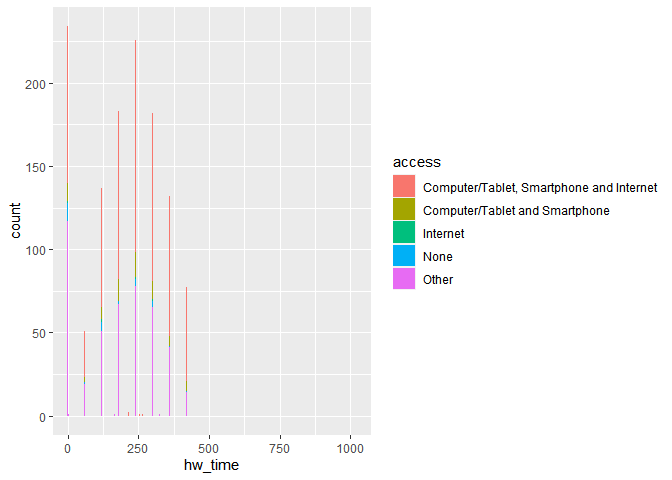
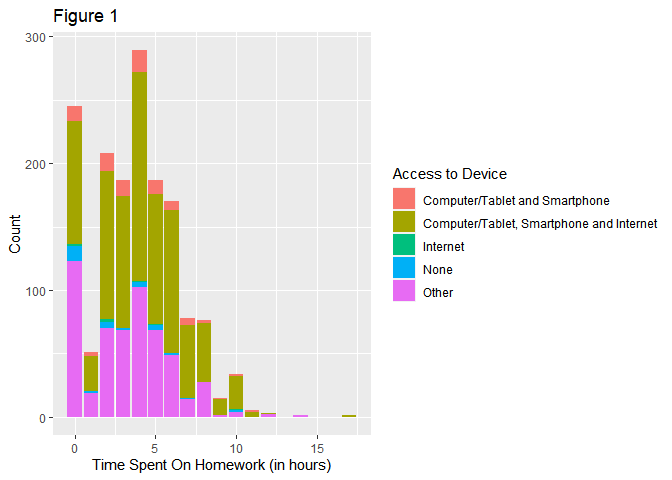
final solution

diff --git a/Projects/ZHuang2107/sonji-uni.md b/Projects/ZHuang2107/sonji-uni.md
@@ -1,9 +1,8 @@
 # Table of content
 
 1.  [Preparation](#preparation)  
-2.  [Data Cleaning](#data-cleaning)
-3.  [Data Processing](#data-processing)  
-4.  [Plot](#plot)
+2.  [Data Processing](#data-processing)  
+3.  [Plot](#plot)
 
 # Preparation
 
@@ -11,41 +10,29 @@
 
     datRaw <- read.csv('project data.csv')
 
-# Data Cleaning
-
-## Select columns
+# Data Processing
 
     dat <- datRaw |> 
+      # select columns
       select(P4_1:P4_3,
-             S8_1:S8_2)
-
-## Remove missings
-
-    dat <- dat |> 
-      na.omit()
-
-## Recode columns
-
-    dat <- dat |> 
-      mutate_at(vars(starts_with('P4_')),
-                ~ case_match(.x,
-                             1 ~ T, 2 ~ F))
-
-    dat <- dat |> 
-      mutate(hw_time = S8_1*60 + S8_2) |> 
-      select(-c(S8_1, S8_2))
-
-## Rename columns
-
-    names(dat) <- str_replace(names(dat),
-                              pattern = 'P4',
-                              replacement = 'dev')
-
-# Data Processing
+             S8_1:S8_2) |> 
+      # remove missings
+      na.omit() |> 
+      # recode columns
+      mutate(across(starts_with('P4_'),
+                    ~ case_match(.x,
+                                 1 ~ T, 2 ~ F)),
+             hw_time = round((S8_1*60 + S8_2) / 60)) |> 
+      # rename columns
+      rename('dev_computer' = P4_1,
+             'dev_internet' = P4_2,
+             'dev_smart' = P4_3,
+             'hw_hours' = S8_1,
+             'hw_minutes' = S8_2)
 
 ## Add group
 
-> ## Access to electric devices
+> **Access to electric devices**
 >
 > There will be four colors representing the following four situations:
 >
@@ -56,30 +43,23 @@
 
     dat <- dat |> 
       mutate(access = case_when(
-         dev_1 &  dev_2 &  dev_3 ~ 1,
-         dev_1 & !dev_2 &  dev_3 ~ 2,
-        !dev_1 &  dev_2 & !dev_3 ~ 3,
-        !dev_1 & !dev_2 & !dev_3 ~ 4,
-        TRUE                     ~ 5
-      ))
-
-    dat <- dat |> 
-      mutate(access = factor(access,
-                             labels = c('Computer/Tablet, Smartphone and Internet',
-                                        'Computer/Tablet and Smartphone',
-                                        'Internet',
-                                        'None',
-                                        'Other')))
+         dev_computer &  dev_internet &  dev_smart ~ 'Computer/Tablet, Smartphone and Internet',
+         dev_computer & !dev_internet &  dev_smart ~ 'Computer/Tablet and Smartphone',
+        !dev_computer &  dev_internet & !dev_smart ~ 'Internet',
+        !dev_computer & !dev_internet & !dev_smart ~ 'None',
+                                              TRUE ~ 'Other') |> 
+          factor())
 
 # Plot
 
     dat |> 
       ggplot(aes(x = hw_time,
                  fill = access)) +
-      geom_bar()
+      geom_bar() +
+      labs(title = 'Figure 1',
+           x = 'Time Spent On Homework (in hours)',
+           y = 'Count',
+           fill = 'Access to Device')
 
-![Relationship between access to different devices and time spent on
-homework](sonji-uni_files/figure-markdown_strict/fig-deviceHomework-1.png)
-
-The range of total time spent on homework is quite large (0 ≤ `hw_time`
-≥ 1020. Therefore, I think that a bar plot is not really suitable here.
+![Relationship Between Access To Different Devices And Time Spent On
+Homework](sonji-uni_files/figure-markdown_strict/fig-deviceHomework-1.png)
